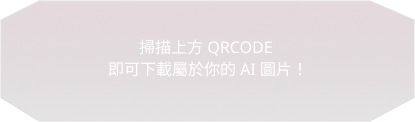
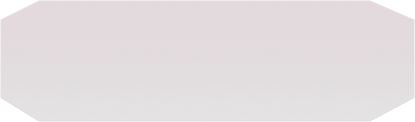
Updated fonts,camera layout,error msg,swap Api

Changed region(s): [[0.2602, 0.4918, 0.7229, 0.6393], [0.3181, 0.3197, 0.6651, 0.4426], [0.3181, 0.6148, 0.347, 0.6393]]

diff --git a/src/Page/Camera/ReadyToTake.js b/src/Page/Camera/ReadyToTake.js
@@ -3,14 +3,14 @@ import {useImage} from '../../Helper/ImageContext'
 import { Link } from "react-router-dom";
 import {Camera} from "react-camera-pro";
 import styled from 'styled-components';
-import { FaArrowLeft,FaCameraRetro,FaCamera,FaUpload,FaArrowAltCircleRight } from "react-icons/fa";
+import { FaArrowLeft,FaCameraRetro,FaCamera,FaUpload,FaArrowAltCircleRight,FaTimes } from "react-icons/fa";
 import { MdCameraswitch, MdPhotoCamera,MdMobileScreenShare, MdClose,MdDownload,MdRefresh,MdReply,MdEast,MdKeyboardReturn } from "react-icons/md";
 import { motion, AnimatePresence } from "framer-motion";
 import Resizer from "react-image-file-resizer";
 import useProgressiveImg from "../../Helper/useProgressiveImg";
 
 
-import { Button,Checkbox,Typography } from "@material-tailwind/react";
+import { Button,Checkbox,Typography,IconButton } from "@material-tailwind/react";
 import CustomAlert from "../../Helper/CustomAlert";
 import {getUsernameFromCookie} from '../../Helper/Helper'
 
@@ -29,7 +29,7 @@ const ResultImagePreview = styled.div`
 `;
 function ReadyToTake({handleBackClick}) {
   const storedUsername = getUsernameFromCookie();
-  const [isCameraOpen, setCameraOpen] = useState(false);
+  const [isCameraOpen, setCameraOpen] = useState(true);
   const [selectedImage, setSelectedImage] = useState(null);
   const [numberOfCameras, setNumberOfCameras] = useState(0);
   const [image, setImage] = useState(null);
@@ -94,7 +94,7 @@ function ReadyToTake({handleBackClick}) {
   const onBtnClick = () => {
     /*Collecting node-element and performing click*/
     setImage(null)
-    setCameraOpen(false)
+    // setCameraOpen(false)
     inputFileRef.current.click();
   }
   const testFetchPost = (photo)=>{
@@ -355,9 +355,45 @@ function ReadyToTake({handleBackClick}) {
             className=" relative w-11/12 aspect-square  md:w-1/2 mx-auto md:aspect-[13/10] bg-gray-500 "
             style={{clipPath: 'polygon(10% 0%, 90% 0%, 100% 10%, 100% 90%, 90% 100%, 10% 100%, 0% 90%, 0% 10%)'}}
           >
-            <div className="  top-0 z-10 absolute hidden md:block ">
-              <img src={process.env.PUBLIC_URL+'/images/headframe.png'} alt="" className="" />
-            </div>
+
+            {!image &&
+              <div className="  top-0 z-10 absolute hidden md:block ">
+                <img src={process.env.PUBLIC_URL+'/images/headframe_white.png'} alt="" className="" />
+              </div>
+            }
+
+           
+            {image && (
+              <div 
+                className="z-10 absolute bg-black/70 w-full h-full bg-cover bg-no-repeat bg-center flex justify-center items-center "
+                style={{
+                  backgroundImage: `url(${process.env.PUBLIC_URL +'/images/headframe_red.png'})`,
+                }}
+              >  
+           
+
+
+                <motion.div 
+                  initial={{ opacity: 0,y:-10 }} 
+                  animate={{ opacity: 1,y:0}}
+                  exit={{ opacity: 0,y:0 }}
+                  className="w-[250px] relative">
+                  <div className="pt-[80%] relative ">
+                    <img src={image} alt="Selected"  className="absolute top-0 left-0 object-cover w-full h-full rounded-md border-0 border-white  " />
+                  </div>
+                  <div className=" absolute -top-5 -right-5">
+                    <IconButton size="sm" className="rounded-full " color="white" onClick={()=>setImage(null)}>
+                      <FaTimes size={16} />
+                    </IconButton>
+                  </div>     
+
+                  {/* 在这里可以进行图像上传或其他操作 */}
+                </motion.div>
+   
+              </div>
+            )}
+
+            
             <Camera ref={camera}  />
           </div>
 
@@ -376,21 +412,7 @@ function ReadyToTake({handleBackClick}) {
             > 
               <MdPhotoCamera color="black" size={24}/>  
             </button>
-            {image && (
-              <Suspense fallback={<p>Loading</p>}>
-                <motion.div 
-                  initial={{ opacity: 0 }}
-                  animate={{ opacity: 1}}
-                  exit={{ opacity: 0 }}
-                  className="w-16">
-                  <div className="pt-[100%] relative ">
-                    <img src={image} alt="Selected"  className="absolute aspect-square top-0 left-0 object-cover w-full h-full rounded-full border-2 border-white  " />
 
-                  </div>
-                  {/* 在这里可以进行图像上传或其他操作 */}
-                </motion.div>
-              </Suspense>
-            )}
             
           </div>
 
@@ -428,7 +450,7 @@ function ReadyToTake({handleBackClick}) {
 
         <div className="flex flex-col md:flex-row items-center gap-10 mt-">
           <div className="flex flex-col gap-6">
-            <div className=" relative cursor-pointer " onClick={toggleCamera}>
+            <div className=" relative cursor-pointer hidden " onClick={toggleCamera}>
               <div className='sample-heading-3 w-full h-full absolute top-0 z-10   opacity-0 hover:opacity-100  '></div>
               <div className='bg-gradient-to-b from-[#444] to-[#111] px-10 py-2 border  border-white/30 flex justify-center items-center gap-2 ' ><FaCamera />{isCameraOpen? 'Turn off camera' : 'Take a picture'}</div>
             </div>
@@ -455,7 +477,7 @@ function ReadyToTake({handleBackClick}) {
                   animate={{ opacity: 1 }}
                   exit={{ opacity: 0 }}
                 >
-                  <div className="text-sm text-white/70 mb-1 text-center">圖片已準備好</div>
+                  <div className="text-sm text-white/70 mb-1 text-center hidden">圖片已準備好</div>
                   <Link to={'/templates'} className=" relative">
                     <div className='sample-heading-3 w-full h-full absolute top-0 z-10   animate-[fadeIn_0.3s_ease-in-out_infinite] hover:animate-none cursor-pointer  '></div>
                     <div className='bg-gradient-to-b bg-[#FF0050] to-[#000] px-10 py-2 border  border-white/30 flex items-center gap-2' >下一步選擇主題 <FaArrowAltCircleRight /></div>

diff --git a/src/Page/Camera/ModelSelect.js b/src/Page/Camera/ModelSelect.js
@@ -116,7 +116,6 @@ function ModelSelect() {
     .then(responseData => {
       console.log(responseData)
      
-
       setTimeout(() => {
         if(responseData.finished === 0){
           getResulImage(id)
@@ -126,6 +125,7 @@ function ModelSelect() {
           setShowRender(true)
           setIsRender(false)
           setMsg('')
+          updatedData(id,responseData.generations[0].img)
           return
         }
       }, 1000);
@@ -135,6 +135,24 @@ function ModelSelect() {
       console.error(error);
     });
 
+  }
+  const updatedData = (id,url)=>{
+    const formData = new FormData();
+    formData.append('swap_image', url); 
+    formData.append("horde_id", id);
+
+    fetch('https://faceswap.rd-02f.workers.dev/swap_data', {
+      method: 'POST',
+      body: formData,
+      redirect: 'follow'
+    })
+    .then(response => response.json())
+    .then(responseData => {
+      console.log(responseData)
+    })
+    .catch(error => {
+      console.error(error);
+    });
   }
   function dataURLtoFile(dataurl, filename) {
     var arr = dataurl.split(','),
@@ -283,24 +301,32 @@ function ModelSelect() {
               <img src={process.env.PUBLIC_URL+'/images/loading.png'} alt="" className='animate-spin'/>
             </div>
             
-            <div className='absolute bottom-1/4 left-1/2 -translate-x-1/2  z-40 w-full text-center '>
-              {msg&&(
-                <motion.div 
-                  initial={{ opacity: 0,y:10 }}
-                  animate={{ opacity: 1,y:0}}
-                  exit={{ opacity: 0,y:10}}
-                  className='text-white/80 '>{msg}</motion.div>
-              )}
-              {
-                storedUsername && 
-                <div className="  text-white/70 text-xs z-10">玩家名稱：{storedUsername}</div>
-              }
-            </div>
+
 
             <div className='w-[350px] '>
-              <div className='pt-[100%] relative border border-red-500 rounded-full'>
+              <div className='pt-[100%] relative border border-red-500 rounded-full overflow-hidden'>
                 <img src={beforeImage} alt="Selected"  className=" brightness-[0.2] absolute aspect-square top-0 left-0 object-cover w-full h-full rounded-full  " />
+                <div className='absolute bottom-10 left-1/2 -translate-x-1/2  z-40 w-full text-center '>
+                  {msg&&(
+                    <motion.div 
+                      initial={{ opacity: 0,y:10 }}
+                      animate={{ opacity: 1,y:0}}
+                      exit={{ opacity: 0,y:10}}
+                      className='text-white/80 '>{msg}</motion.div>
+                  )}
+                  {
+                    storedUsername && 
+                    <div className="  text-white/70 text-xs z-10">玩家名稱：{storedUsername}</div>
+                  }
+                  {
+                    msg && msg.includes('錯誤') &&
+                      <Link to='/camera' className='mt-4'>
+                        <div className='p-2 bg-[#FF0050]/50'>回到上一步驟</div> 
+                        <div className='text-xs mt-1 text-white/70'>拍照或選擇照片</div>
+                      </Link>
+                  }
 
+                </div>
               </div>
             </div>
 

diff --git a/src/Page/Camera/Result.js b/src/Page/Camera/Result.js
@@ -44,8 +44,13 @@ function Result({open ,handleOpen,renderedResult,username}) {
                 />
                
               </div> }
-              <div className='mt-8'>
-                <img src={process.env.PUBLIC_URL+'/images/scan_info.png'} alt="scan_info" className='max-w-full hidden md:block' />
+              <div 
+                className='mt-8  bg-contain bg-center bg-no-repeat w-full px-10 py-6 text-sm text-center text-white font-normal'
+                style={{
+                  backgroundImage: `url(${process.env.PUBLIC_URL +'/images/scan_info.png'})`,
+                }}
+              >
+                掃描上方 QRCODE 即可下載屬於你的 AI 圖片！
               </div>
               <div className='flex flex-col w-1/2 md:w-full'>
                 <div className=" relative mt-6 w-3/4 mx-auto" onClick={handleOpen}>

diff --git a/src/Page/Camera/FrontPage.js b/src/Page/Camera/FrontPage.js
@@ -62,7 +62,7 @@ function FrontPage({handleClick}) {
 
             <div className='flex my-6 flex-col gap-2 md:flex-row md:gap-0 '>
               <div className="w-72">
-                <Input type="text" color="white" label="請輸入玩家名稱" className=' rounded-none' onChange={onChange} />
+                <Input type="text" color="white" label="Player Name" className=' rounded-none' onChange={onChange} />
                 
               </div>
               <div 
@@ -79,7 +79,7 @@ function FrontPage({handleClick}) {
    
 
             
-            <Typography color="white" className="flex text-xs my-10 md:mt-3 font-normal">
+            <Typography color="white" className="flex text-xs my-10 md:mt-3 font-normal hidden">
               當您使用本功能時代表您了解並同意
               <Typography
                 as="a"

diff --git a/src/index.css b/src/index.css
@@ -3,10 +3,17 @@
 @tailwind utilities;
 
 
+
+
 @layer base {
+  @font-face {
+    font-family: 'Cachet W05';
+    src: url('https://moonshine.b-cdn.net/msweb/asusaicamera/fonts/TradeGothicLTW05-Bold.woff2') format('woff2'),
+         url('https://moonshine.b-cdn.net/msweb/asusaicamera/fonts/TradeGothicLTW05-Bold.woff') format('woff');
+ }
   html {
     /* font-family: Montserrat, sans-serif; */
-    font-family: 'Mulish','Noto Sans TC', sans-serif;
+    font-family: 'Cachet-W05','Noto Sans TC', sans-serif;
   }
 }
 
